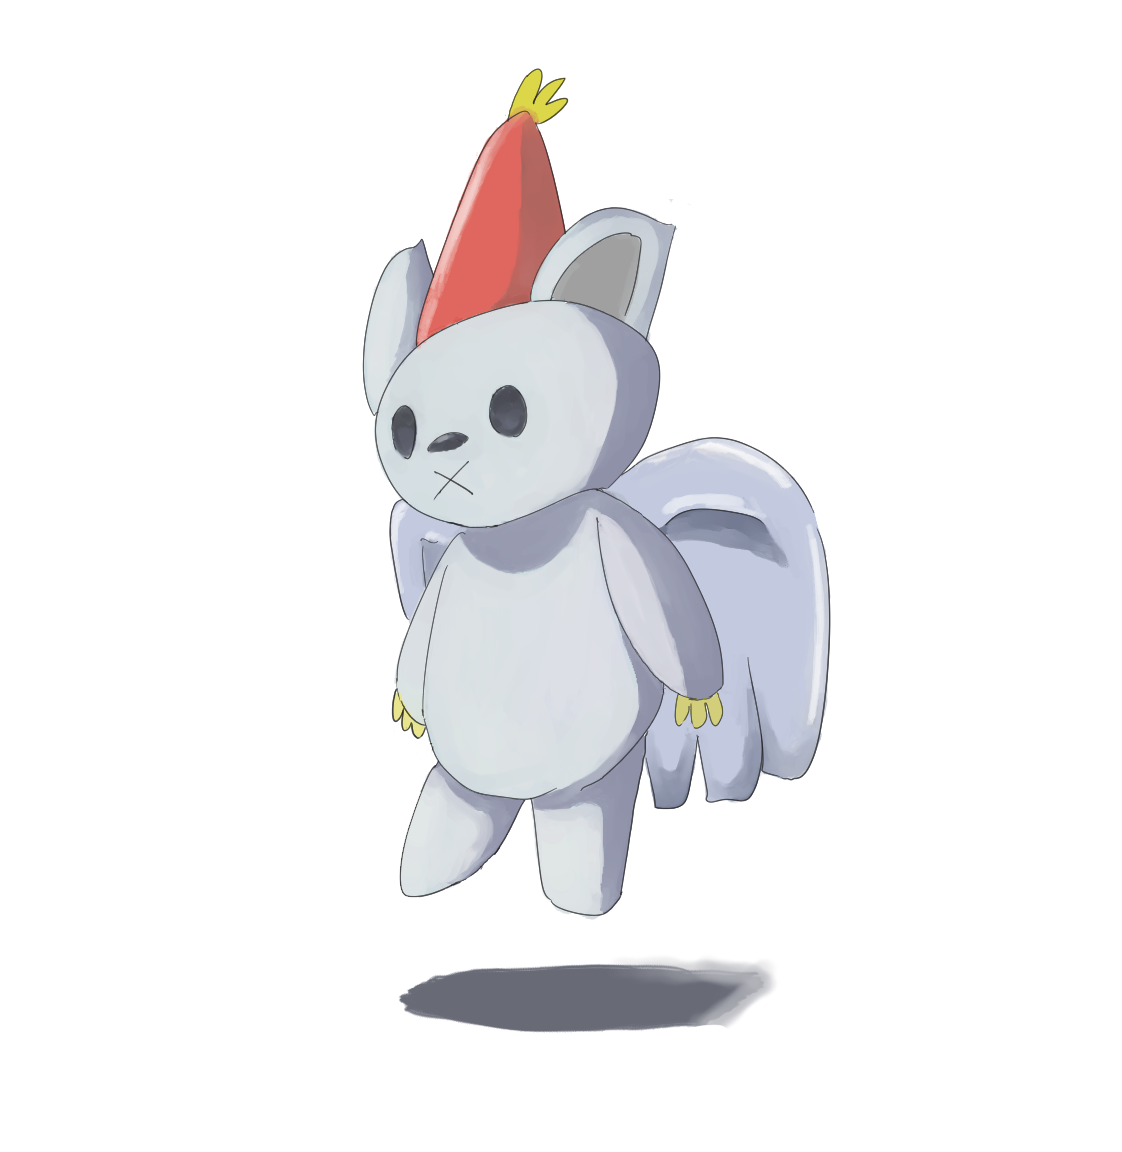
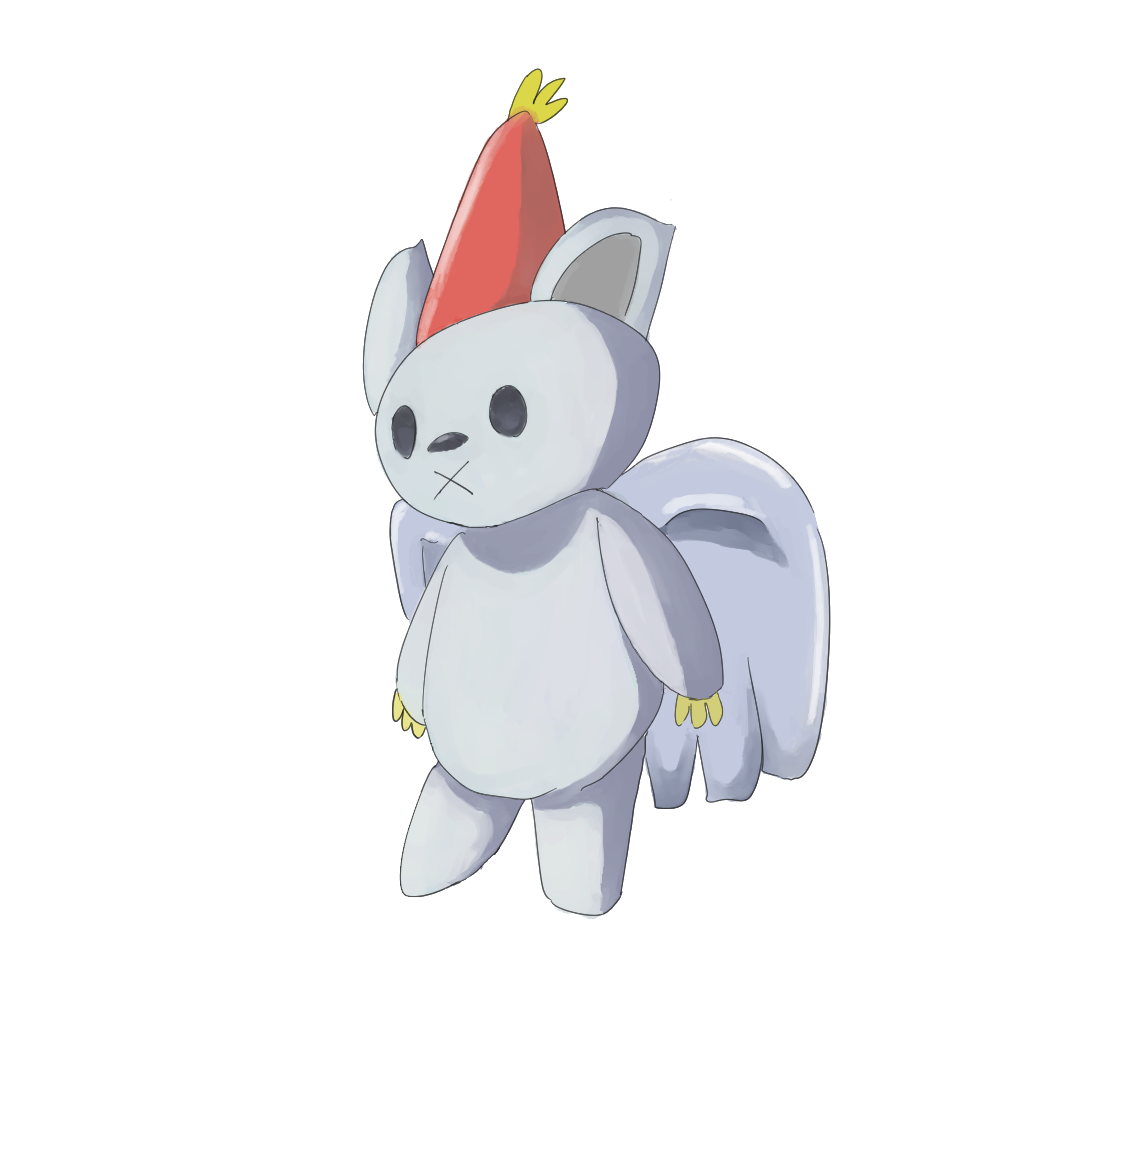
Add animations

Changed region(s): [[0.3431, 0.8125, 0.6863, 0.9062]]

diff --git a/index.html b/index.html
@@ -14,6 +14,54 @@
       margin-bottom: 70px;
     }
 
+    #character {
+        position: relative; 
+        margin-left: auto;
+        margin-right: auto;
+        left: 0;
+        z-index: 2;
+    }
+
+    #shadow {
+        position: absolute;
+        margin-left: auto;
+        margin-right: auto;
+        left: 0;
+        z-index: 1;
+    }
+
+    img[src="./images/ddd.png"] {
+        animation-timing-function: ease-in-out;
+        -webkit-animation: updown 0.4s infinite alternate;
+        animation: updown 0.4s infinite alternate;
+    }
+
+    img[src="./images/shadow.png"] {
+        animation-timing-function: ease-in-out;
+        -webkit-animation: scale 0.4s infinite alternate;
+        animation: scale 0.4s infinite alternate;
+    }
+
+    @-webkit-keyframes updown {
+        0% {transform: translateY(0px);}
+        100% {transform: translateY(-28px);}
+    }
+
+    @keyframes updown {
+        0% {transform: translateY(0px);}
+        100% {transform: translateY(-28px);}
+    }
+
+    @-webkit-keyframes scale {
+        0% {transform: scale(1.0);}
+        100% {transform: scale(0.99);}
+    }
+
+    @keyframes scale {
+        0% {transform: scale(1.0);}
+        100% {transform: scale(0.99);}
+    }
+
     footer {
       position: fixed;
       bottom: 0;
@@ -39,7 +87,8 @@
     <button onclick="window.location='https://fictheader.github.io/about';" class="button">ABOUT US</button>
   </div>
 
-    <img src="./images/ddd.png" alt="character" height=100%>
+    <img src="./images/ddd.png" id="character" alt="character" height=100%>
+    <img src="./images/shadow.png" id="shadow" alt="shadow" height=100%>
 
 </body>
 
